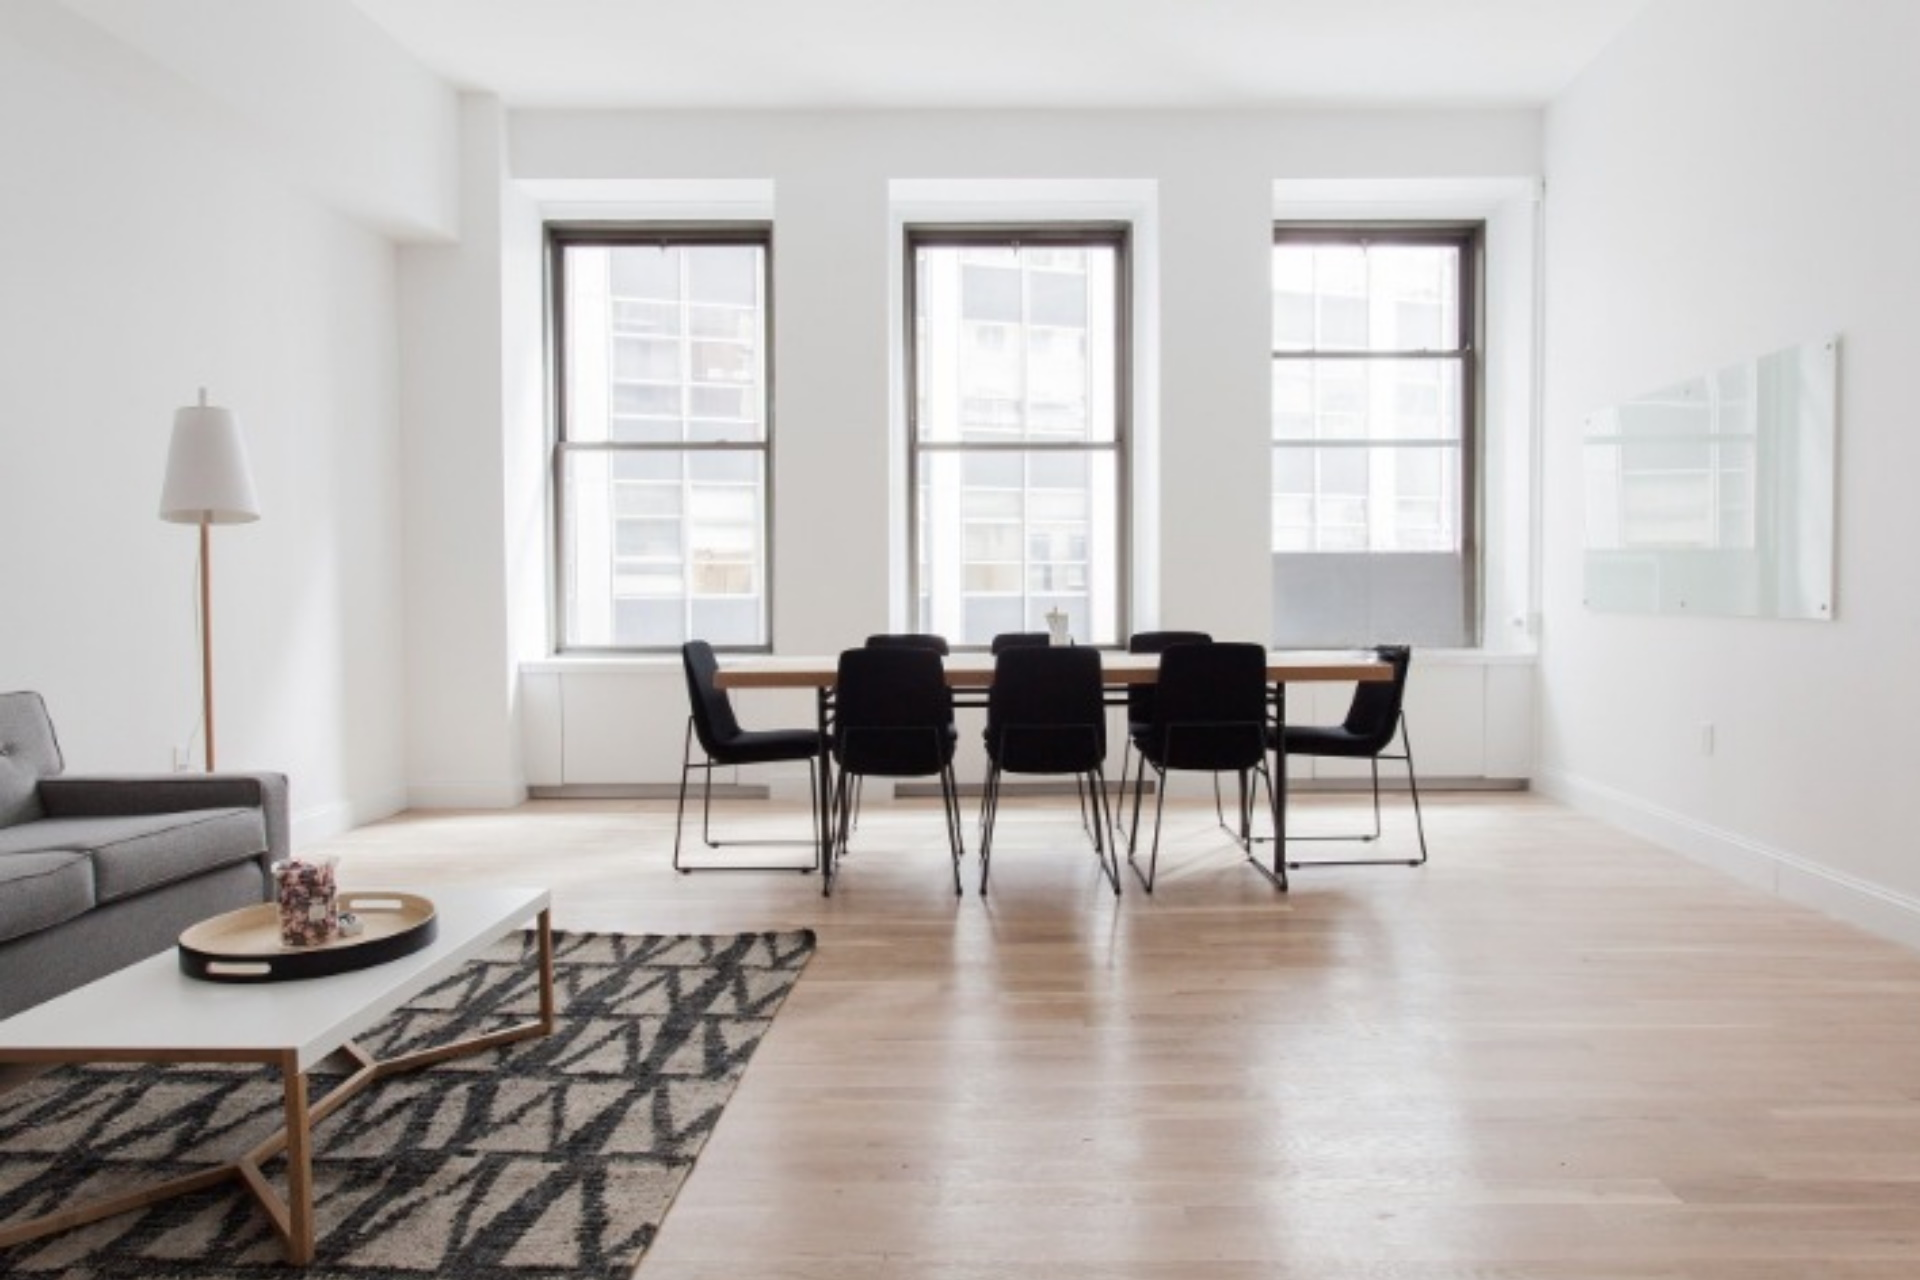
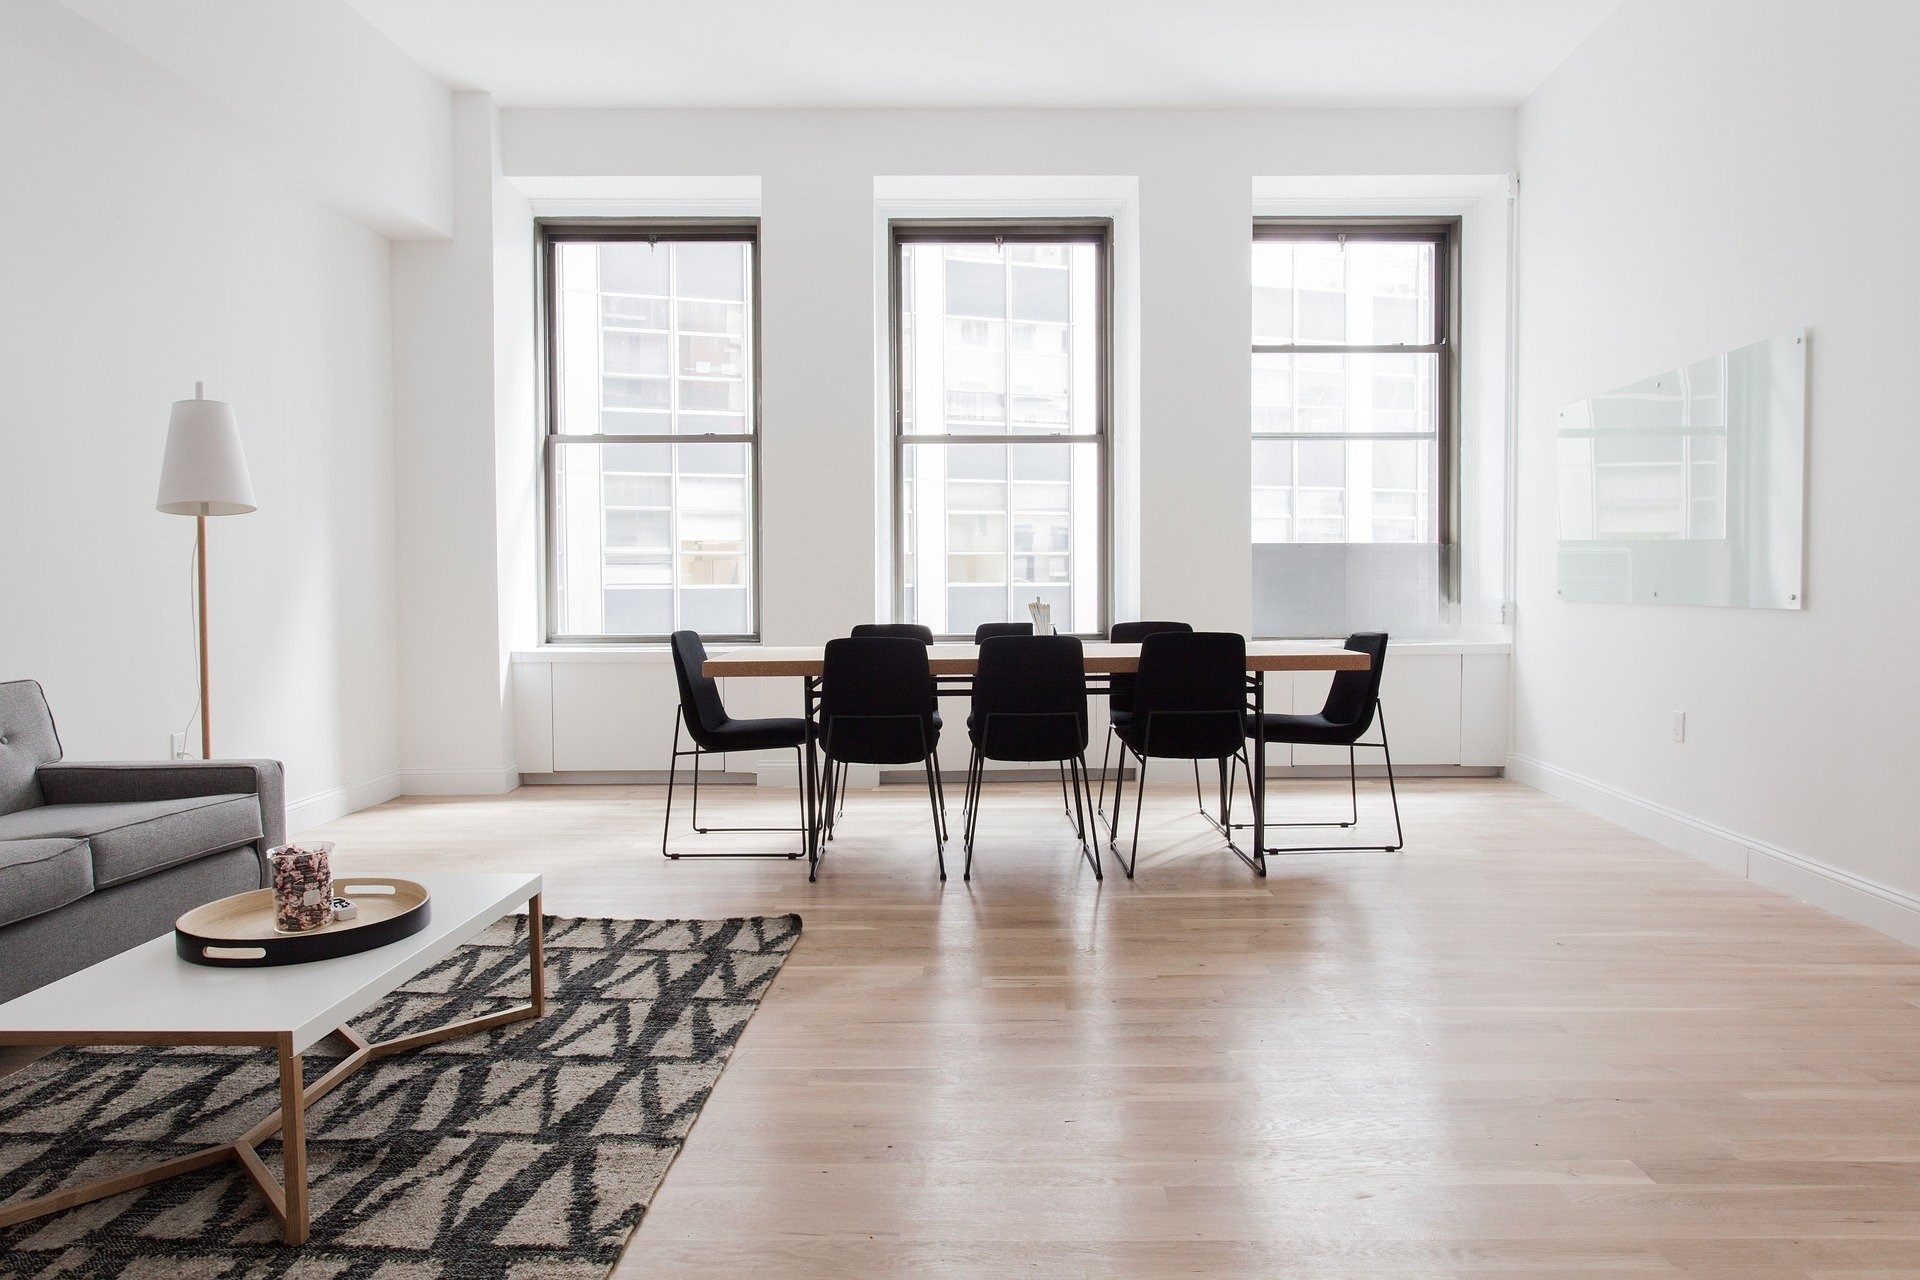
update head

diff --git a/css/index.css b/css/index.css
@@ -11,7 +11,7 @@
  *************************/
 
 #page1-headimg div#img{
-    background: linear-gradient( rgba(0, 0, 0, 0), rgba(0, 0, 0, 0.4) ), url("../assets/chairs-g38e12a6cd_1920.jpg");
+    background: linear-gradient( rgba(0, 0, 0, 0), rgba(0, 0, 0, 0.4) ), url("../assets/chairs-g38e12a6cd_1920_cleanup.jpg");
     background-position: center;
     background-repeat: no-repeat;
     width: 100%;
